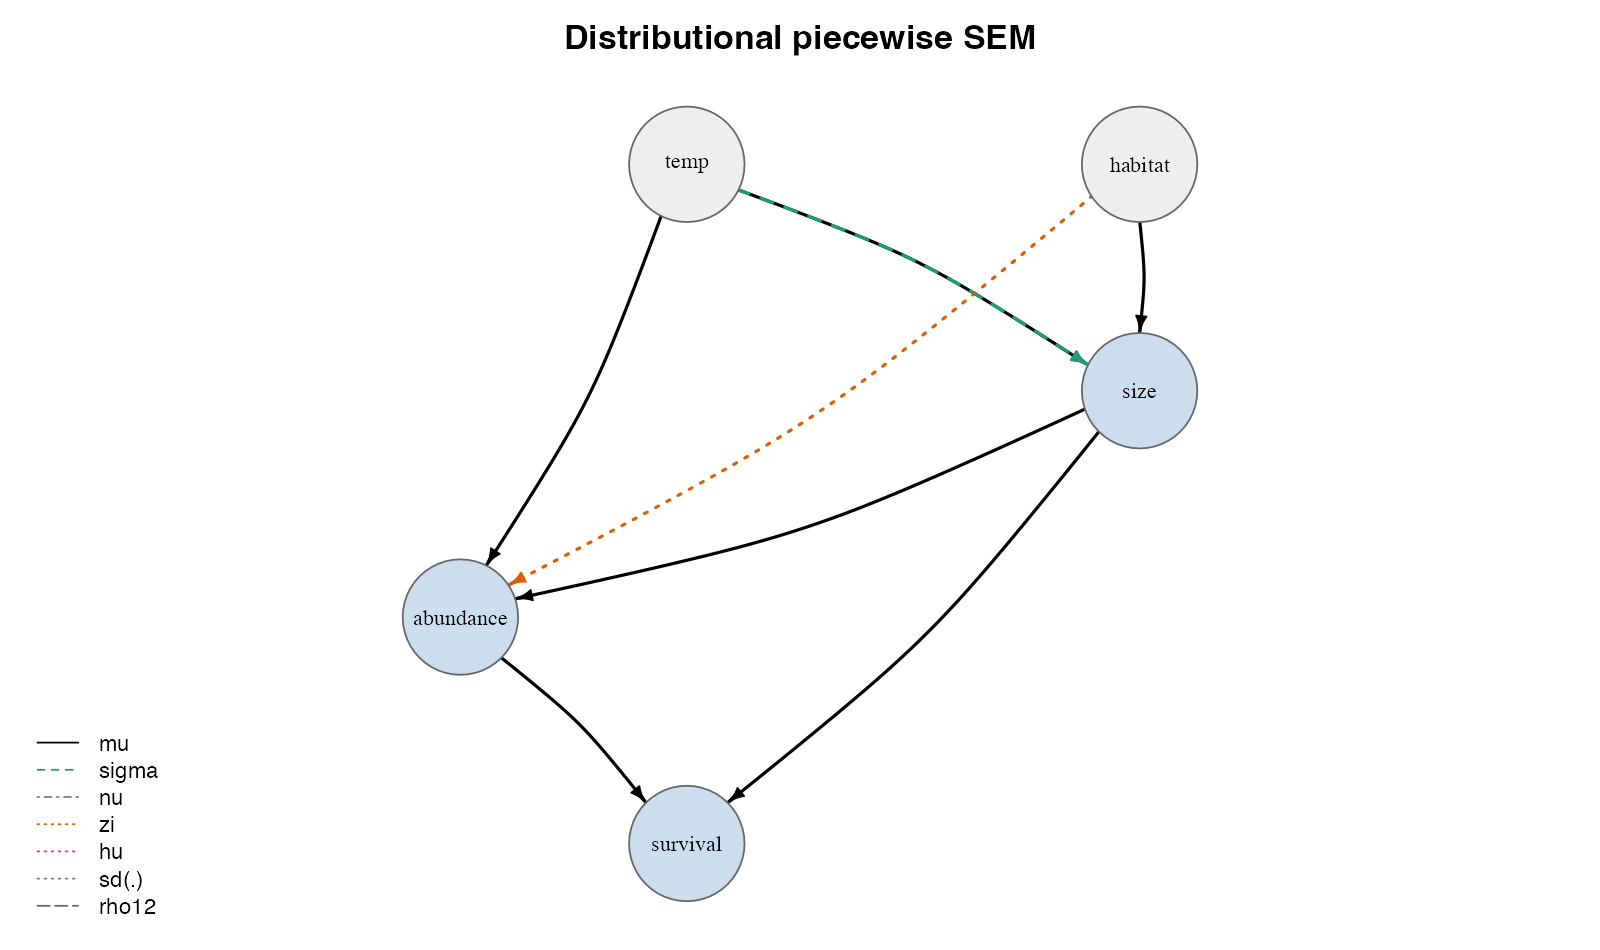
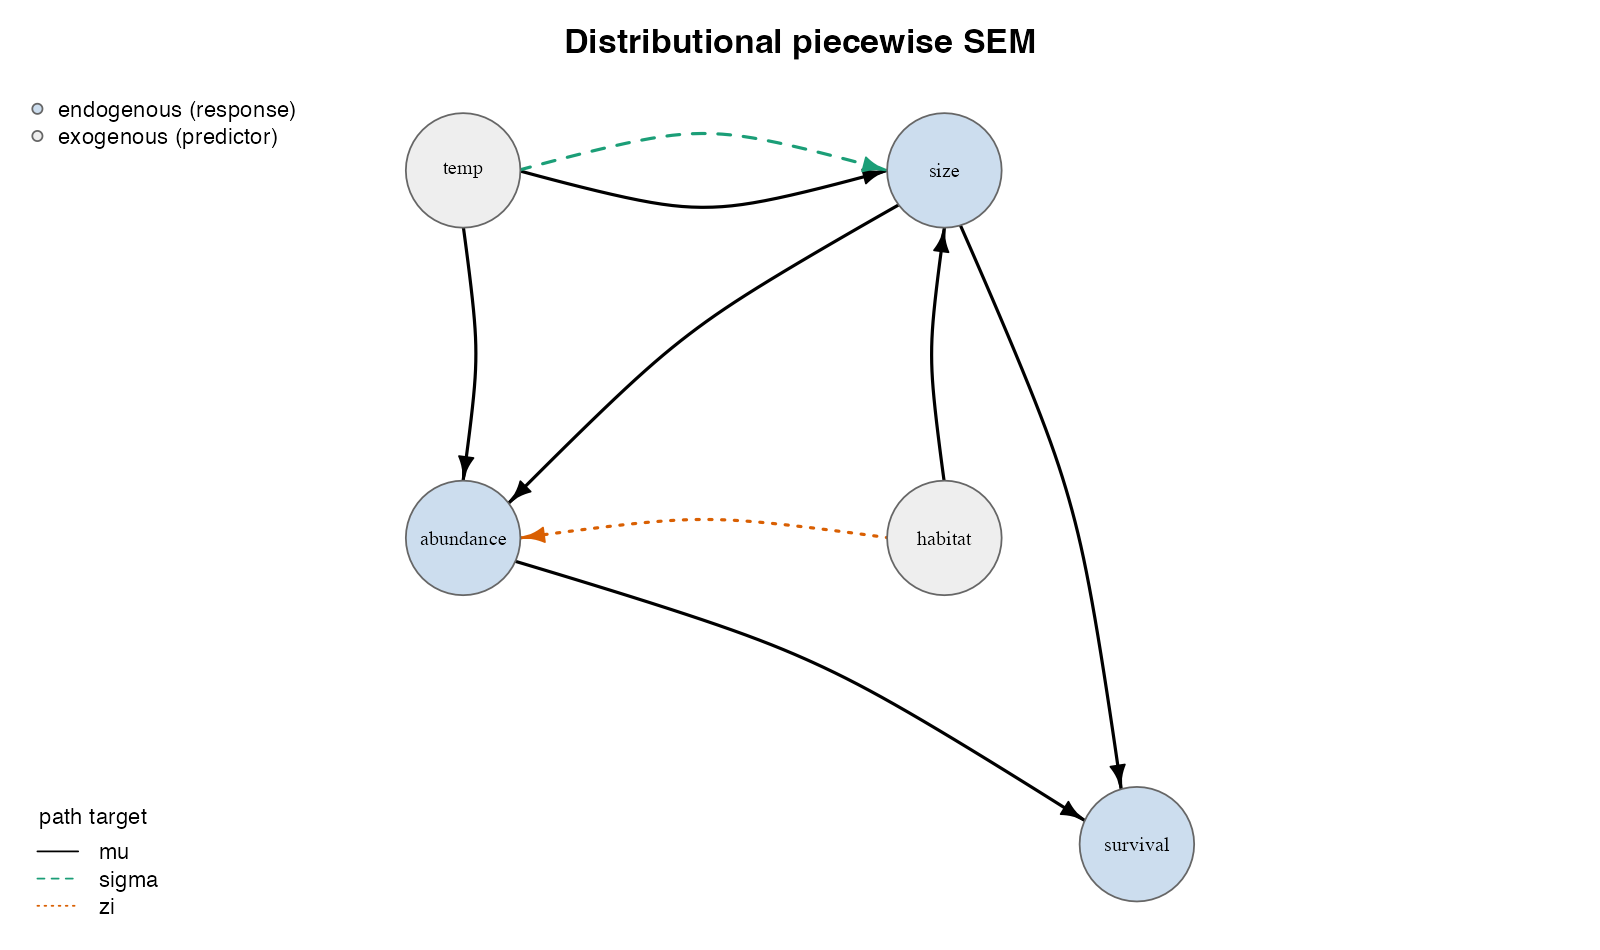
Render hero DAG and refresh release docs

diff --git a/docs/memory/CODEX_HANDOFF.md b/docs/memory/CODEX_HANDOFF.md
@@ -84,22 +84,19 @@ kernel + live-fit, V-1..V-73) and `12-coverage-calibration.md` (wave-2 spec).
 The pure-R surface is green and the honest caveats are all recorded — over to the
 engine. Thanks! — Claude/CI lane
 
-## ⚠ Re-render the hero DAG (live lane) — code fixed, PNG stale
+## DONE 2026-06-07 — Re-render the hero DAG (live lane)
 
-`plot.drm_sem()` and `tools/render-readme-hero.R` were fixed (faithful legend
-listing only drawn components; fanned parallel edges; node-fill legend; `hu`
-linetype; legibility bumps; optional `layout=`). The Claude lane **cannot
-regenerate the committed image** (`man/figures/drmsem-hero-dag.png`) — no R in
-container — so the PNG is **stale vs the fixed code** until re-rendered:
+`plot.drm_sem()` and `tools/render-readme-hero.R` were fixed in the Claude lane
+(faithful legend listing only drawn components; fanned parallel edges; node-fill
+legend; `hu` linetype; legibility bumps; optional `layout=`), but the committed
+PNG needed a live R render. Codex ran `Rscript tools/render-readme-hero.R`, found
+one residual crossing in the first render, added a fixed named `layout =` matrix
+to the generator, and re-rendered `man/figures/drmsem-hero-dag.png`.
 
-1. `Rscript tools/render-readme-hero.R` and visually confirm the rendered figure
-   shows a **3-row legend (mu / sigma / zi)** and **no overlapping/crossing
-   edges** (the `temp→size` mu+sigma pair should now be two distinct arcs).
-2. If a residual crossing remains, pass a fixed `layout =` matrix (rownames =
-   node names) to `plot()` in the generator and re-render until clean.
-3. Commit the regenerated PNG. The same image is embedded in `README.md` and
-   `paper.md`; both captions already describe only mu/sigma/zi, so no prose
-   change is needed once the legend matches.
+Visual check passed: the path legend has exactly three rows (`mu`, `sigma`,
+`zi`), the `temp -> size` `mu` and `sigma` paths are separate arcs, and the
+orange `zi` path no longer crosses or overlaps the black paths. The same image is
+embedded in `README.md` and `paper.md`; no prose change was needed.
 
 ## What shipped (pure-R / CI-green) up to this handoff
 

diff --git a/docs/memory/AGENT_LOG.md b/docs/memory/AGENT_LOG.md
@@ -1117,3 +1117,14 @@ Lesson (Rose): visual QA of a generated figure must **diff the legend entries
 against `edges$component`**, not just check label clipping — the phantom legend
 shipped past an earlier "visually inspected" note because only clipping was
 checked.
+
+## 2026-06-07 — Codex live render follow-up for hero DAG
+
+After #35 landed, Codex rebased the 0.5.0 branch and ran
+`Rscript tools/render-readme-hero.R` in the live R/drmTMB environment. The first
+render confirmed the legend fix (`mu`, `sigma`, `zi`) and separated the
+`temp -> size` `mu`/`sigma` arcs, but the orange `zi` path still crossed a black
+path. Added a fixed row-named `layout =` matrix to `tools/render-readme-hero.R`
+and re-rendered `man/figures/drmsem-hero-dag.png`. Visual check passed: three-row
+path legend, distinct `temp -> size` arcs, and no crossing/overlap among the
+visible paths.